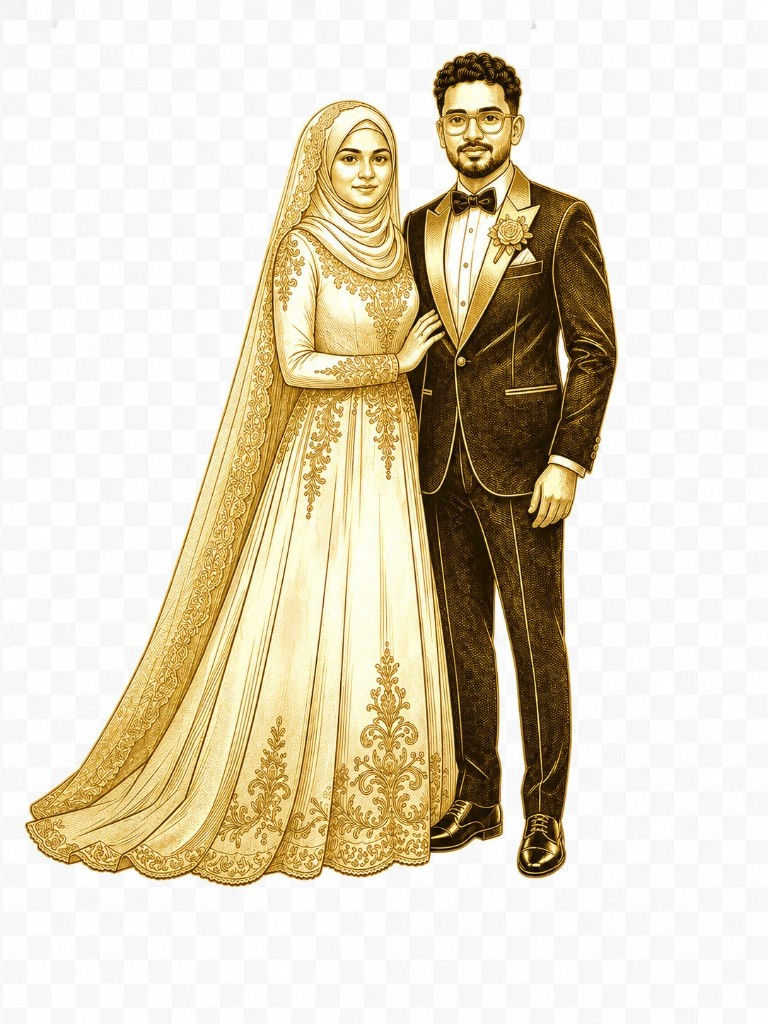
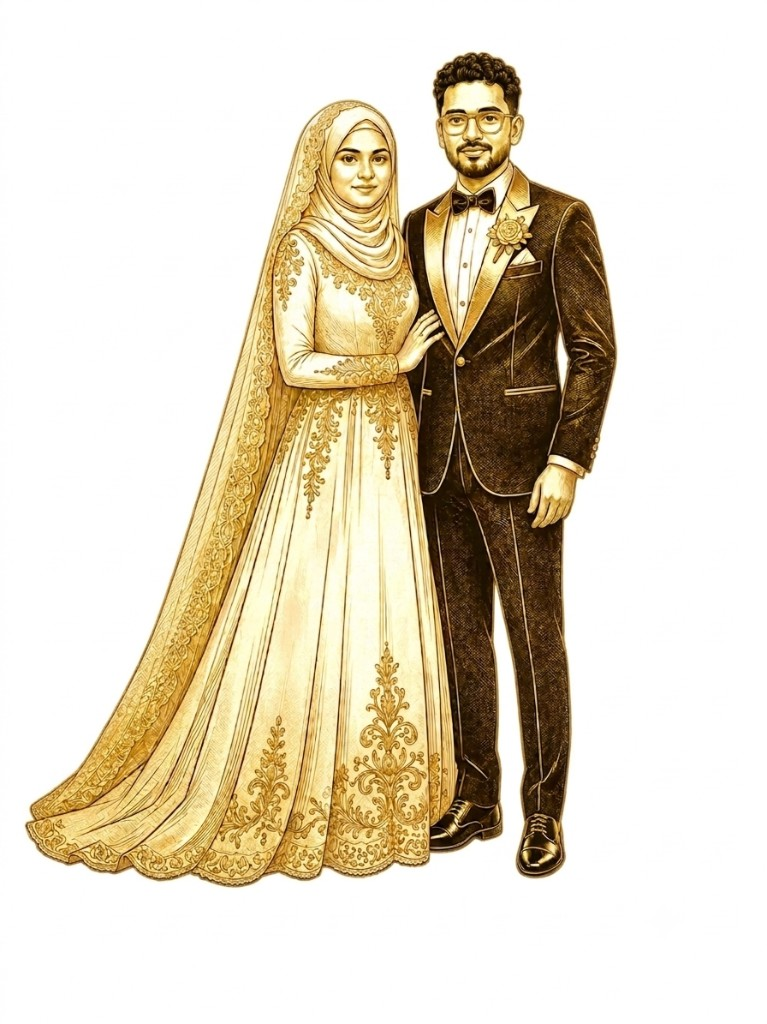
Align couple portraits on shared baseline with new transparent PNGs

Changed region(s): [[0.03, 0.0312, 0.8096, 0.875], [0.5398, 0.4688, 0.5698, 0.5]]

diff --git a/index.html b/index.html
@@ -359,19 +359,25 @@ section{ position: relative; padding: 120px 0; }
 /* ============================================================
    6. COUPLES / OUR STORY
    ============================================================ */
-.couples-grid{ display: grid; grid-template-columns: 1fr 1fr; gap: 36px; max-width: 980px; margin: 60px auto 0; }
-.couple-card{ padding: 46px 34px 38px; text-align: center; }
+.couples-grid{
+  display: grid; grid-template-columns: 1fr 1fr; gap: 36px; max-width: 980px; margin: 60px auto 0;
+  align-items: stretch;
+}
+.couple-card{
+  padding: 40px 28px 36px; text-align: center;
+  display: flex; flex-direction: column; align-items: center;
+}
 .couple-card .ci-wrap{
-  width: min(88%, 248px);
-  aspect-ratio: 3 / 4;
-  margin: 0 auto 18px;
-  display: flex; align-items: flex-end; justify-content: center;
+  width: min(100%, 258px); height: 308px; flex: 0 0 308px; margin: 0;
+  display: flex; align-items: flex-end; justify-content: center; overflow: hidden;
 }
 .couple-card .ci-wrap svg{ width: 100%; height: 100%; }
 .couple-card .ci-wrap img.couple-photo{
-  width: 100%; height: 100%; object-fit: contain; object-position: center bottom; display: block;
-  filter: drop-shadow(0 10px 28px rgba(0, 0, 0, 0.35));
+  max-width: 100%; max-height: 100%; width: auto; height: auto;
+  object-fit: contain; object-position: center bottom; display: block;
+  filter: drop-shadow(0 8px 22px rgba(0, 0, 0, 0.32));
 }
+.couple-card .cc-copy{ width: 100%; margin-top: 20px; flex: 1; }
 .couple-card .cc-names{ font-family: var(--font-display); font-weight: 700; font-size: clamp(22px,3vw,28px); margin-bottom: 10px; }
 .couple-card .cc-full{ font-size: 13.5px; letter-spacing: .03em; margin-bottom: 16px; }
 .couple-card .cc-tag{ font-family: var(--font-accent); font-style: italic; font-size: 15.5px; }
@@ -694,20 +700,24 @@ footer .foot-fine{ font-size: 11.5px; letter-spacing: .05em; color: rgba(248,242
     <div class="couples-grid">
       <div class="couple-card glass corner-frame reveal reveal-2">
         <div class="ci-wrap">
-          <img class="couple-photo" src="public/images/photo-musfi.png" alt="Musfir and Fasna" width="768" height="1024">
+          <img class="couple-photo" src="public/images/photo-musfi.png" alt="Musfir and Fasna" width="767" height="1024" loading="eager" decoding="async">
         </div>
-        <h3 class="cc-names cc-gold">Musfir &amp; Fasna</h3>
-        <p class="cc-full cc-gold">Musfir Pullat &amp; Fasna Machingal</p>
-        <p class="cc-tag cc-gold">"A union written in patience and grace."</p>
+        <div class="cc-copy">
+          <h3 class="cc-names cc-gold">Musfir &amp; Fasna</h3>
+          <p class="cc-full cc-gold">Musfir Pullat &amp; Fasna Machingal</p>
+          <p class="cc-tag cc-gold">"A union written in patience and grace."</p>
+        </div>
       </div>
 
       <div class="couple-card glass corner-frame maroon-accent reveal reveal-3">
         <div class="ci-wrap">
-          <img class="couple-photo" src="public/images/photo-rockey.png" alt="Fasil and Rinshana" width="768" height="1024">
+          <img class="couple-photo" src="public/images/photo-rockey.png" alt="Fasil and Rinshana" width="767" height="1024" loading="eager" decoding="async">
         </div>
-        <h3 class="cc-names cc-gold">Fasil &amp; Rinshana</h3>
-        <p class="cc-full cc-gold">Fasil Pullat &amp; Fathima Rinshana</p>
-        <p class="cc-tag cc-gold">"Two souls, one beautiful new beginning."</p>
+        <div class="cc-copy">
+          <h3 class="cc-names cc-gold">Fasil &amp; Rinshana</h3>
+          <p class="cc-full cc-gold">Fasil Pullat &amp; Fathima Rinshana</p>
+          <p class="cc-tag cc-gold">"Two souls, one beautiful new beginning."</p>
+        </div>
       </div>
     </div>
   </div>

diff --git a/app/globals.css b/app/globals.css
@@ -340,24 +340,46 @@ section{ position: relative; padding: 120px 0; }
 /* ============================================================
    6. COUPLES / OUR STORY
    ============================================================ */
-.couples-grid{ display: grid; grid-template-columns: 1fr 1fr; gap: 36px; max-width: 980px; margin: 60px auto 0; }
-.couple-card{ padding: 46px 34px 38px; text-align: center; }
+.couples-grid{
+  display: grid;
+  grid-template-columns: 1fr 1fr;
+  gap: 36px;
+  max-width: 980px;
+  margin: 60px auto 0;
+  align-items: stretch;
+}
+.couple-card{
+  padding: 40px 28px 36px;
+  text-align: center;
+  display: flex;
+  flex-direction: column;
+  align-items: center;
+}
 .couple-card .ci-wrap{
-  width: min(88%, 248px);
-  aspect-ratio: 3 / 4;
-  margin: 0 auto 18px;
+  width: min(100%, 258px);
+  height: 308px;
+  flex: 0 0 308px;
+  margin: 0;
   display: flex;
   align-items: flex-end;
   justify-content: center;
+  overflow: hidden;
 }
 .couple-card .ci-wrap svg{ width: 100%; height: 100%; }
 .couple-card .ci-wrap img.couple-photo{
-  width: 100%;
-  height: 100%;
+  max-width: 100%;
+  max-height: 100%;
+  width: auto;
+  height: auto;
   object-fit: contain;
   object-position: center bottom;
   display: block;
-  filter: drop-shadow(0 10px 28px rgba(0, 0, 0, 0.35));
+  filter: drop-shadow(0 8px 22px rgba(0, 0, 0, 0.32));
+}
+.couple-card .cc-copy{
+  width: 100%;
+  margin-top: 20px;
+  flex: 1;
 }
 .couple-card .cc-names{
   font-family: var(--font-display);

diff --git a/components/InviteWebsite.tsx b/components/InviteWebsite.tsx
@@ -175,13 +175,17 @@ export default function InviteWebsite() {
                   className="couple-photo"
                   src="/images/photo-musfi.png"
                   alt="Musfir and Fasna"
-                  width={768}
+                  width={767}
                   height={1024}
+                  loading="eager"
+                  decoding="async"
                 />
               </div>
-              <h3 className="cc-names cc-gold">Musfir &amp; Fasna</h3>
-              <p className="cc-full cc-gold">Musfir Pullat &amp; Fasna Machingal</p>
-              <p className="cc-tag cc-gold">&ldquo;A union written in patience and grace.&rdquo;</p>
+              <div className="cc-copy">
+                <h3 className="cc-names cc-gold">Musfir &amp; Fasna</h3>
+                <p className="cc-full cc-gold">Musfir Pullat &amp; Fasna Machingal</p>
+                <p className="cc-tag cc-gold">&ldquo;A union written in patience and grace.&rdquo;</p>
+              </div>
             </div>
 
             <div className="couple-card glass corner-frame maroon-accent reveal reveal-3">
@@ -190,13 +194,17 @@ export default function InviteWebsite() {
                   className="couple-photo"
                   src="/images/photo-rockey.png"
                   alt="Fasil and Rinshana"
-                  width={768}
+                  width={767}
                   height={1024}
+                  loading="eager"
+                  decoding="async"
                 />
               </div>
-              <h3 className="cc-names cc-gold">Fasil &amp; Rinshana</h3>
-              <p className="cc-full cc-gold">Fasil Pullat &amp; Fathima Rinshana</p>
-              <p className="cc-tag cc-gold">&ldquo;Two souls, one beautiful new beginning.&rdquo;</p>
+              <div className="cc-copy">
+                <h3 className="cc-names cc-gold">Fasil &amp; Rinshana</h3>
+                <p className="cc-full cc-gold">Fasil Pullat &amp; Fathima Rinshana</p>
+                <p className="cc-tag cc-gold">&ldquo;Two souls, one beautiful new beginning.&rdquo;</p>
+              </div>
             </div>
           </div>
         </div>